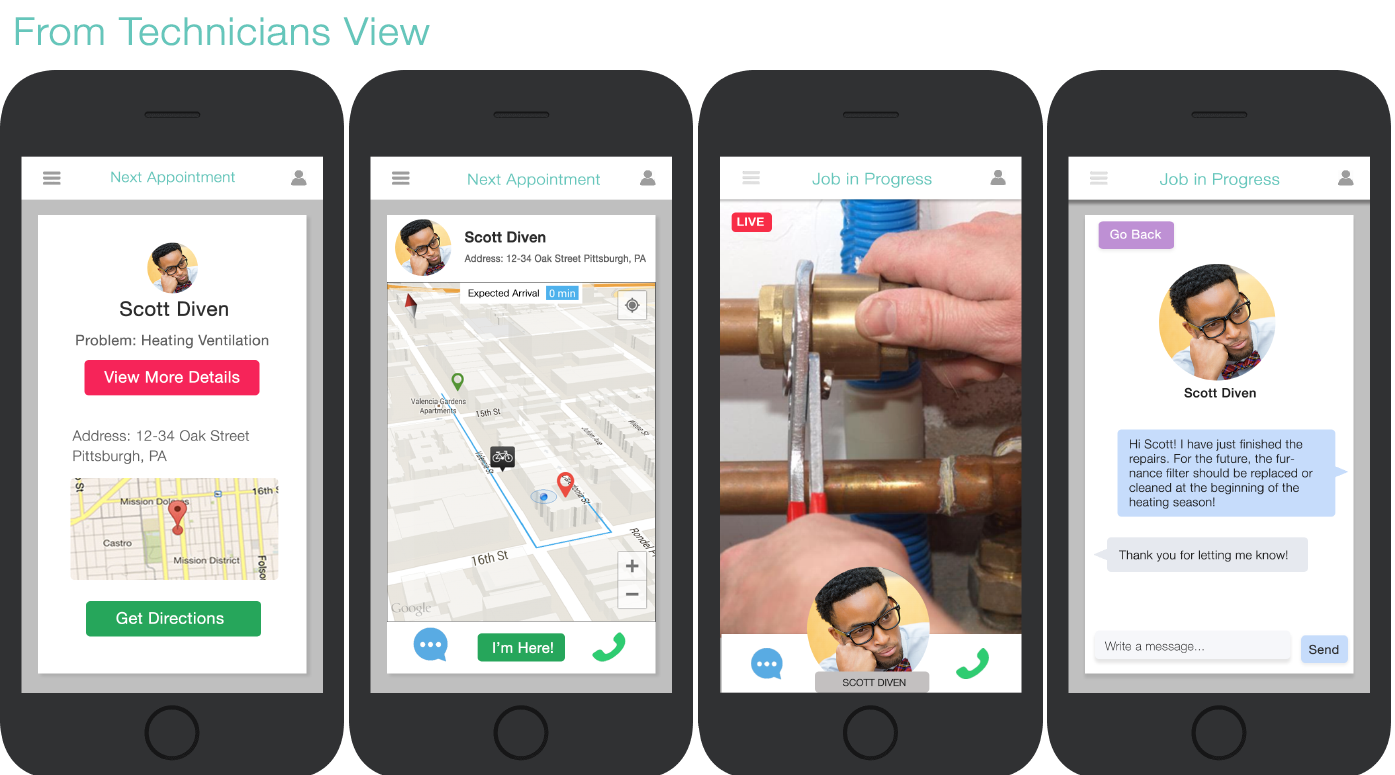
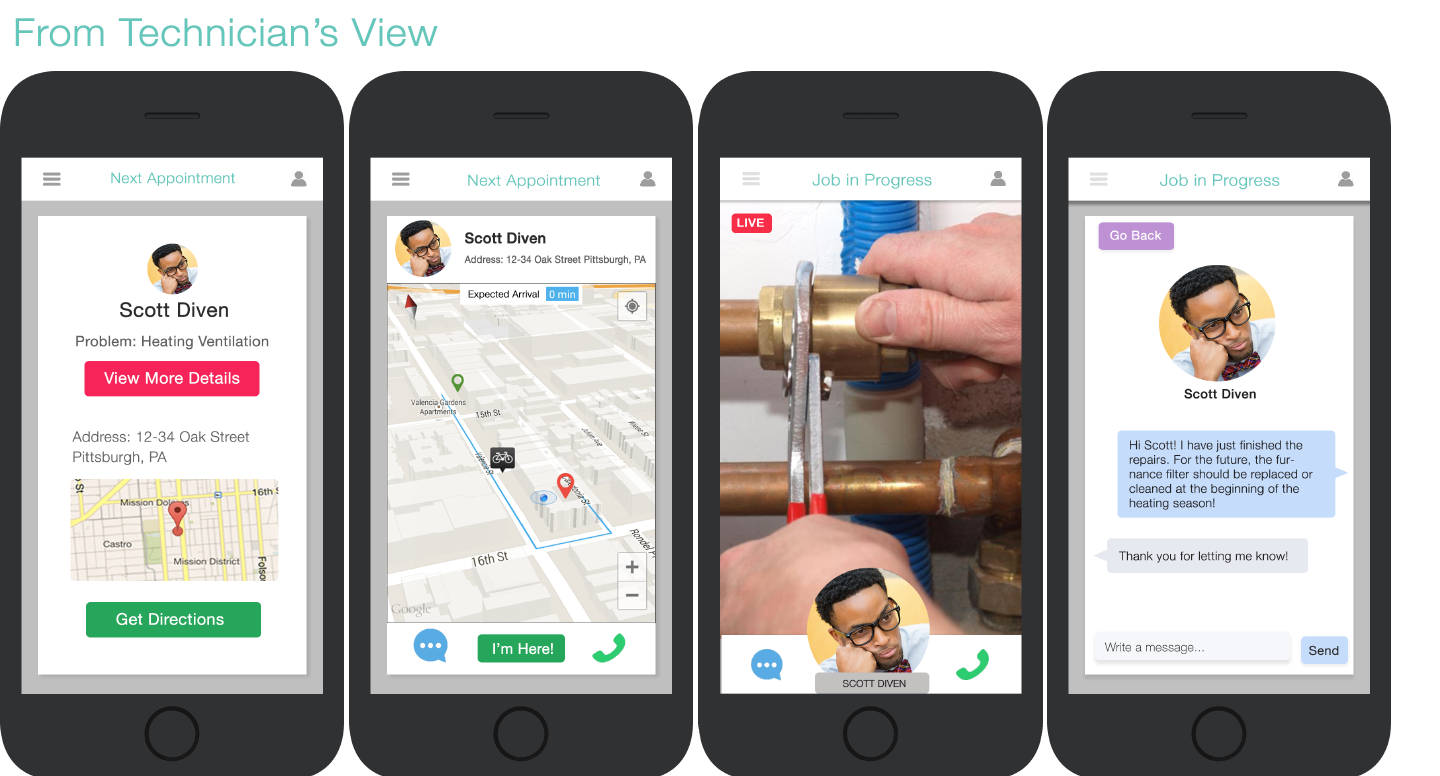
minor formatting update

diff --git a/dashboard.html b/dashboard.html
@@ -125,14 +125,14 @@
         <h5>KEY FINDINGS</h5>
         <ul class = "dashed1">
           <li class ="dash"> Africa feels <strong> greater effects</strong> of climate change relative to first-world economies </li>
-          <li class ="dash"> The population in Sub-Saharan Africa is projected to  <strong>reach more than 2 billion </strong> or 22% of the world total by 2050. </li>
+          <li class ="dash"> The population in Sub-Saharan Africa is projected to  <strong>reach more than 2 billion </strong> or 22% of the world total by 2050 </li>
           <li class ="dash"> Traditional or modern methods for production can’t keep up with <strong> changing environment</strong></li>
           <li class ="dash"> Currently, people are slashing and burning forested or heavily wooded area for <strong> short-term survival needs </strong></li>
-          <li class ="dash"> Elephants’ roaming and eating habits are essential to the <strong>maintenance of the different habitats </strong> and thus to the survival of many species of plants and animals. </li>
-          <li class ="dash"> Elephants are <strong> sensitive to climate change </strong>. </li>
-            <li style="margin-left:3em; list-style-type: circle; margin-bottom: .5em"> They are heat-sensitive animals and get sunburnt so they are susceptible heat stress.</li>
+          <li class ="dash"> Elephants’ roaming and eating habits are essential to the <strong>maintenance of the different habitats </strong> and thus to the survival of many species of plants and animals </li>
+          <li class ="dash"> Elephants are <strong> sensitive to climate change</strong> </li>
+            <li style="margin-left:3em; list-style-type: circle; margin-bottom: .5em"> They are heat-sensitive animals and get sunburnt so they are susceptible heat stress</li>
             <li style="margin-left:3em; list-style-type: circle; margin-bottom: .5em">Their birth peaks correlate with rainfall peaks</li>
-            <li style="margin-left:3em; list-style-type: circle; margin-bottom: .5em">Although elephants follow a typical yearly migration path, in the absence of sufficient water, they will deviate from their normal path in the hopes of finding other sources of water and more suitable habitats.</li>
+            <li style="margin-left:3em; list-style-type: circle; margin-bottom: .5em">Although elephants follow a typical yearly migration path, in the absence of sufficient water, they will deviate from their normal path in the hopes of finding other sources of water and more suitable habitats</li>
 
         </ul>
         <br>
@@ -175,7 +175,7 @@
           </div>
 
           <h5> INITIAL DESIGNS</h5>
-          <p> From the research we gathered, we sketched different ways to visualize all this data. We narrowed down somes indicators to focus on. Below are some of our sketches and drafts we made to see what kind of correlations we can make with the data we had:</p>
+          <p> From the research we gathered, we sketched different ways to visualize all this data. We narrowed down the indicators to focus on. Below are some of our sketches and drafts we made to see what kind of correlations we can make with the data we had:</p>
           <img class = "dashboardImg" src="img/portfolio/dashboard/dashboard_Draft2.png">
           <img class = "dashboardImg" src="img/portfolio/dashboard/dashboard_Draft1.png">
           <img class = "dashboardImg" src="img/portfolio/dashboard/dashboard_Draft3.png">
@@ -215,9 +215,9 @@
           <ul class="dashed">
             <li style="margin-bottom: .5em;"> Use predictive climate information provided by the dashboard to take <strong>advanced precautions</strong> as to when these changes may have major effects on crop production </li>
        
-            <li style="margin-bottom: .5em;"> Act on the provided knowledge of <strong>elephant migration deviations</strong> by notifying the farmers of the affected fields and encouraging these farmers to take advantage of simple, organic elephant repellents instead of attacking the elephant. </li>
+            <li style="margin-bottom: .5em;"> Act on the provided knowledge of <strong>elephant migration deviations</strong> by notifying the farmers of the affected fields and encouraging these farmers to take advantage of simple, organic elephant repellents instead of attacking the elephant </li>
           
-             <li style="margin-bottom: .5em;"> Utilize the knowledge of where farmers are not using their land to produce to its potential to focus his promotion of more <strong>sustainable agricultural practices</strong> to target those areas.
+             <li style="margin-bottom: .5em;"> Utilize the knowledge of where farmers are not using their land to produce to its potential to focus his promotion of more <strong>sustainable agricultural practices</strong> to target those areas
           </li>
           </ul>
           <br><br>

diff --git a/trustyTech.html b/trustyTech.html
@@ -65,7 +65,7 @@
 
       <div class= "projectHeader">
         <h2 class="text-uppercase">TrustyTech</h2>
-        <p class="item-intro text-muted">A mobile app to optimize home service providers appointments</p>
+        <p class="item-intro text-muted">A mobile app to optimize appointments with home service providers</p>
         <img class="img-fluid d-block mx-auto" src="img/portfolio/trustyTech/neonbrand-717862-unsplash.jpg"alt="">
         <br>
        </div>
@@ -134,9 +134,9 @@
         <h5>KEY INSIGHTS</h5>
         <p> After we completed and analyzed our research, we discovered some main findings that we used to motivate our exploratory scenarios:</p>
         <ul class="dashed">
-          <li style="margin-bottom: .5em;"> Customers have <strong> difficulty in distinguishing</strong> among contractors on the basis of quality.</li>
-          <li style="margin-bottom: .5em;"> There are already many existing applications that aim to optimize the scheduling process, but customers are still <strong> constrained by having to wait at home</strong> for the technician during a large time window.</li>
-          <li style="margin-bottom: .5em;"> Most of the <strong>communication to customer is through the dispatcher</strong> and they need to get update from the technician. Dispatcher need to understand where technician are on the existing call to manage the expectation of the new calls.</li>
+          <li style="margin-bottom: .5em;"> Customers have <strong> difficulty in distinguishing</strong> among contractors on the basis of quality</li>
+          <li style="margin-bottom: .5em;"> There are already many existing applications that aim to optimize the scheduling process, but customers are still <strong> constrained by having to wait at home</strong> for the technician during a large time window</li>
+          <li style="margin-bottom: .5em;"> Most of the <strong>communication to customer is through the dispatcher</strong> and they need to get update from the technician. Dispatcher need to understand where technicians are on the existing call to manage the expectation of the new calls</li>
         </ul>
         <br>
 
@@ -203,7 +203,7 @@
         <br><br>
         Our team created TrustyTech; a mobile application that aims to build trust between home service providers and their customers, in order to increase the comfort of unsupervised appointments. Through enabling home service appointments without the need of customer presence, customers no longer have to worry about being at home during long appointment windows, and technicians are able to efficiently add more jobs throughout the day. This allows both parties to be more in control of their schedules.
         <br><br>
-        Not only does TrustyTech resolve the issues of scheduling, it also provides an additional value to the home service provider since the recorded livestream videos could be used for training purposes. Thus, both the high costs of rescheduling and training costs could be reduced by the use of TrustyTech.
+        Not only does TrustyTech resolve the issues of scheduling, it also provides an additional value to the home service provider since the recorded live stream videos could be used for training purposes. Thus, both the high costs of rescheduling and training costs could be reduced by the use of TrustyTech.
         </p> 
         <br>
         
@@ -211,10 +211,10 @@
         <ul>
           <li style="margin-bottom: .5em;">1. <strong>Live Stream:</strong> Allow customers to view what the technician is doing</li>
           <li style="margin-bottom: .5em;" >2. <strong>Messaging / Chat:</strong> Technician can ask customers questions and allow customers to authorize certain repairs</li>
-          <li style="margin-bottom: .5em;">3. <strong>Technician Profile:</strong> Customers can be more comfortable with the technician if they learn more about them
-          beforehand</li>
+          <li style="margin-bottom: .5em;">3. <strong>Technician Profile:</strong> Customers can be more comfortable with the technician if they learn more about them beforehand</li>
           <li style="margin-bottom: .5em;">4. <strong>Progress Bar:</strong> Customers can track the different stages of the repair</li>
         </ul> 
+        <br><br>
         <img src="img/portfolio/trustyTech/prototype1.png" class="projectPic" style="text-align:center;">
         <br><br>
         <br>

diff --git a/cui.html b/cui.html
@@ -120,18 +120,18 @@
         <h5>KEY INSIGHTS</h5>
         <ul class = "dashed1">
           <li style="font-weight:bold" class = "dash"> Fitting rooms are important</li>
-            <li style="margin-left:3em; list-style-type: circle; margin-bottom: .5em;"> They are the key step in converting causal shoppers into buyers and it also helps reduce return rates.</li> 
+            <li style="margin-left:3em; list-style-type: circle; margin-bottom: .5em;"> They are the key step in converting causal shoppers into buyers and it also helps reduce return rates</li> 
           <li style="font-weight:bold" class = "dash"> Shoppers need advice when picking on clothes</li>
-            <li style="margin-left:3em; list-style-type: circle; margin-bottom: .5em"> Typical shopper will ask for advice from friends who accompany them or from other acquaintances through online interactions.</li>
+            <li style="margin-left:3em; list-style-type: circle; margin-bottom: .5em"> Typical shopper will ask for advice from friends who accompany them or from other acquaintances through online interactions</li>
 
           <li style="font-weight:bold" class = "dash"> Fitting rooms are stressful</li>
-            <li style="margin-left:3em; list-style-type: circle; margin-bottom: .5em"> 69% of women between age 25-40 said changing rooms are stressful for them.</li>
+            <li style="margin-left:3em; list-style-type: circle; margin-bottom: .5em"> 69% of women between age 25-40 said changing rooms are stressful for them</li>
 
           <li style="font-weight:bold" class = "dash"> The design and the space of fitting rooms are not appealing</li>
-            <li style="margin-left:3em; list-style-type: circle; margin-bottom: .5em">Fitting rooms are cramped and there is inadequate lighting. </li>
+            <li style="margin-left:3em; list-style-type: circle; margin-bottom: .5em">Fitting rooms are cramped and there is inadequate lighting</li>
 
           <li style="font-weight:bold" class = "dash"> Shoppers want self-help</li> 
-            <li style="margin-left:3em; list-style-type: circle; margin-bottom: .5em"> Majority of shoppers agree that having self-help technologies will improve their shopping experience.</li>
+            <li style="margin-left:3em; list-style-type: circle; margin-bottom: .5em"> Majority of shoppers agree that having self-help technologies will improve their shopping experience</li>
         </ul>
         <br>
       
@@ -151,7 +151,7 @@
         </div>
 
         <h5> DESIGN OPPORTUNITIES</h5>
-        <p>Not much of the fitting room experience has changed over the years. Most of the time, you will be lead into a small space to try on clothes. After trying it on, you'll look at yourself in the mirror to see if you like it or not. And you end up taking pictures of yourself and send it to your friends to get their opinions. You're now debating on whether or not you want to try a different size. You peek out of your fitting room to see if there is an associate avaliable but there is no one around. You decide it is not worth it and just leave the store without buying anything.</p>
+        <p>Not much of the fitting room experience has changed over the years. Most of the time, you will be lead into a small space to try on clothes. After trying it on, you'll look at yourself in the mirror to see if you like it or not. And you end up taking pictures of yourself and send it to your friends to get their opinions. You're now debating on whether or not you want to try a different size. You peek out of your fitting room to see if there is an associate available but there is no one around. You decide it is not worth it and just leave the store without buying anything.</p>
 
         <p> However, with a CUI, it can help provide faster service, a better and more personalized shopping experience to the customer. Customers can quickly access information on store inventory and they can freely ask questions to the CUI instead of waiting for an associate to help. In addition, it can improve the fitting room experience to make it less stressful and more personalized to increase customer satisfaction and encourage them to finish of their journey with a purchase. </p>
         <br>

diff --git a/hebo.html b/hebo.html
@@ -133,11 +133,11 @@
 
         <h5>KEY INSIGHTS</h5>
         <ul class="dashed">
-          <li style="margin-bottom: .5em;"> Doctors <strong>think </strong> that they are providing patients with all of the information they need, but this is not always the case.</li>
-          <li style="margin-bottom: .5em;"> Patients look for <strong>greater reassurance</strong> and <strong>personalized care</strong> from the post- operative process.</li>
-          <li style="margin-bottom: .5em;"> Nurses feel that some post-operative calls are <strong>redundant</strong>.</li>
-          <li style="margin-bottom: .5em;"> The predominant demographic of skin cancer patients, the elderly population, calls for an emphasis on <strong>accessibility </strong> and <strong>simplicity</strong>.</li>
-          <li style="margin-bottom: .5em;"> Patients can become <strong>self-conscious</strong> and concerned about their appearance after undergoing procedures.</li>
+          <li style="margin-bottom: .5em;"> Doctors <strong>think </strong> that they are providing patients with all of the information they need, but this is not always the case</li>
+          <li style="margin-bottom: .5em;"> Patients look for <strong>greater reassurance</strong> and <strong>personalized care</strong> from the post- operative process</li>
+          <li style="margin-bottom: .5em;"> Nurses feel that some post-operative calls are <strong>redundant</strong></li>
+          <li style="margin-bottom: .5em;"> The predominant demographic of skin cancer patients, the elderly population, calls for an emphasis on <strong>accessibility </strong> and <strong>simplicity</strong></li>
+          <li style="margin-bottom: .5em;"> Patients can become <strong>self-conscious</strong> and concerned about their appearance after undergoing procedures</li>
           <li style="margin-bottom: .5em;"> Most nurses will postpone a patient’s post-operative call in order to be able to make a more <strong>personalized and accurate recommendation</strong> for the patient</li>
         </ul>
         <br>
@@ -177,7 +177,7 @@
           <ul class = "dashed">
             <li style="margin-bottom: .5em;"> An elderly couple, where one spouse is undergoing surgery and the other is a caregiver </li>
             <li style ="margin-bottom: .5em;"> An elderly patient, who will be taking care of herself</li>
-            <li style ="margin-bottom: 0.5em;"> A nurse, who works in a dermatologic surgery clinic.</li>
+            <li style ="margin-bottom: 0.5em;"> A nurse, who works in a dermatologic surgery clinic</li>
           </ul>
         </p> 
         <br>

diff --git a/home.html b/home.html
@@ -407,7 +407,7 @@
                   
                   <!-- Project Details Go Here -->
                   <h2 class="text-uppercase">TrustyTech</h2>
-                  <p class="item-intro text-muted">A mobile app to optimize home service provider appointments</p>
+                  <p class="item-intro text-muted">A mobile app to optimize appointments with home service providers</p>
                   <img id="trustytechIMG"class="img-fluid d-block mx-auto" src="img/portfolio/trustTech.png" alt="">
 
                   <p> Many customers are dissatisfied with the service scheduling and delivery experiences with HVAC service providers. Currently, customers are required to identify a day and a 4-hour “arrival window” for the service provider to visit the home. The challenge was to optimize the scheduling, rescheduling, joint decision making and service delivery to produce better outcomes for both home owners and service providers. With TrustyTech, customers will no longer have to worry about being at home during long appointment windows, and technicians are able to efficiently add more jobs throughout the day. TrustyTech is a mobile application that aims to build trust between home service providers and their customers, in order to increase the comfort of unsupervised appointments. This allows both parties to be more in control of their schedules. </p>

diff --git a/ControlDesign.html b/ControlDesign.html
@@ -102,8 +102,8 @@
         <p> For this project, I focused on the traditional venetian style blinds that was most commonly found in household.</p>
 
         <p> Currently, there are two different ways to control the window blinds. 
-        <br>1. The tilt wand is used to change the angle of the slats.
-        <br>2. The lift cord is used to raise the entire blind up and down.</p>
+        <br>1. The tilt wand is used to change the angle of the slats
+        <br>2. The lift cord is used to raise the entire blind up and down</p>
         <br>
       </div>
       <!-- END OF EMPATHIZE STAGE-->
